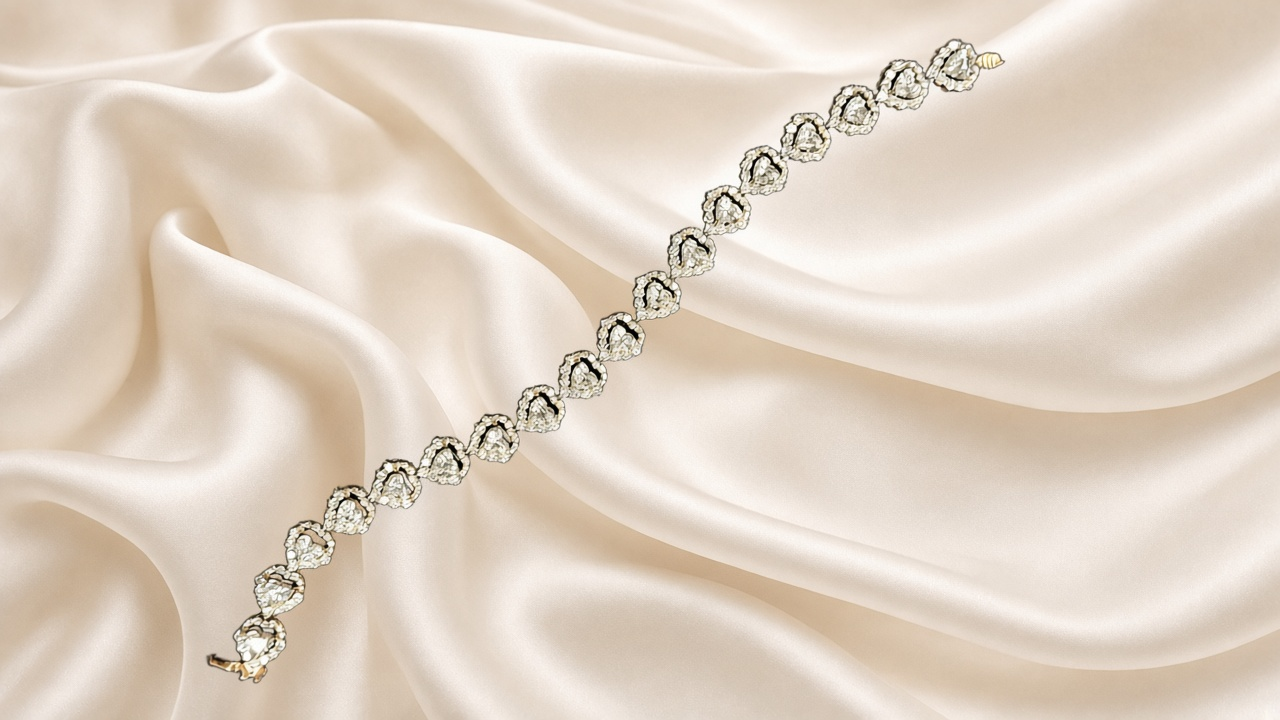
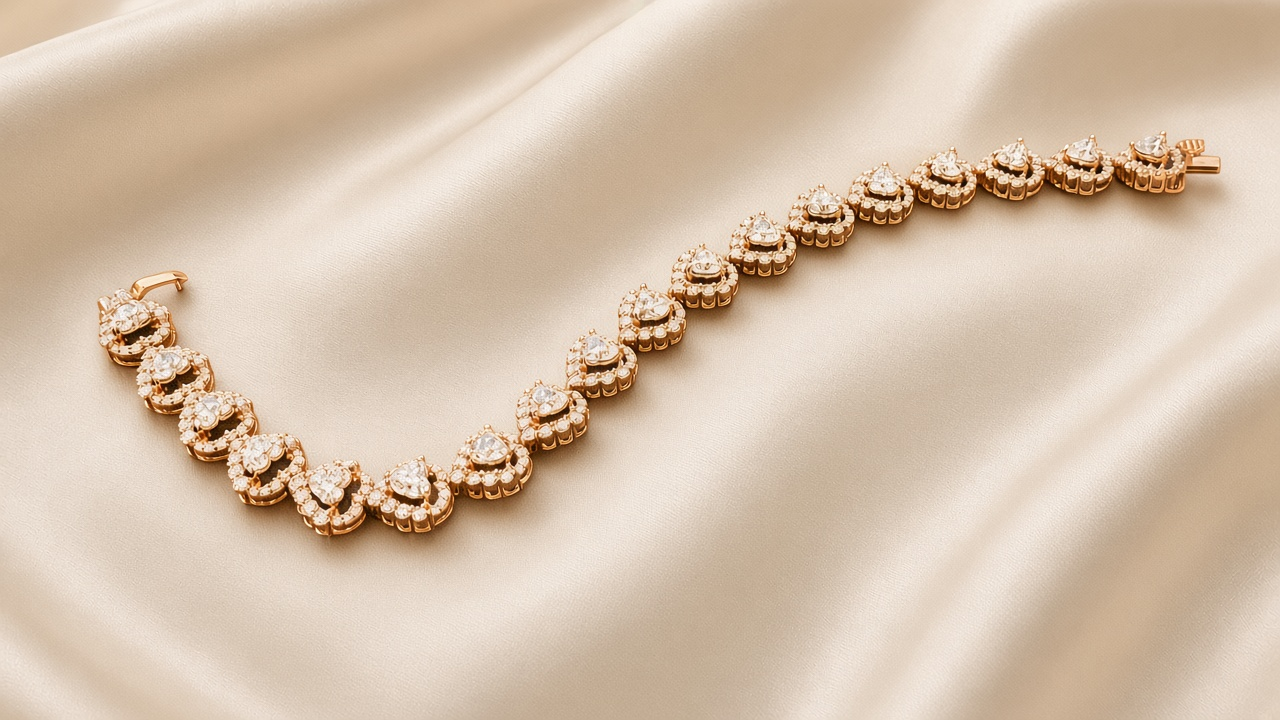
Refresh heart-link bracelet with accurate rose gold studio shots.
Replace white-metal Full/Layout and short Face with rose-gold Full, Layout, close-up Face, and clasp detail from inventory refs.

diff --git a/src/data/catalog.ts b/src/data/catalog.ts
@@ -145,27 +145,27 @@ export const catalogPieces: CatalogPiece[] = [
     line: 'bracelets',
     image: 'images/products/heart-link/cover.jpg',
     alt: 'Rose gold heart-link diamond bracelet with pavé halos on ivory silk',
-    blurb: '14K rose gold heart links with center heart diamonds and pavé halos. Full, layout, face, and casting views.',
+    blurb: '14K rose gold heart links with center heart diamonds and pavé halos. Full, layout, face, and clasp views.',
     shots: [
       {
         src: 'images/products/heart-link/cover.jpg',
-        alt: 'Full rose gold heart-link diamond bracelet on cool ivory silk',
+        alt: 'Full rose gold heart-link diamond bracelet on cream silk',
         label: 'Full',
       },
       {
         src: 'images/products/heart-link/layout.jpg',
-        alt: 'Rose gold heart-link bracelet layout on ivory fabric',
+        alt: 'Rose gold heart-link bracelet layout on cream silk',
         label: 'Layout',
       },
       {
         src: 'images/products/heart-link/face.jpg',
-        alt: 'Face view of rose gold heart links with pavé halos',
+        alt: 'Close-up of rose gold heart links with pavé halos',
         label: 'Face',
       },
       {
-        src: 'images/products/heart-link/casting.jpg',
-        alt: 'Side casting of rose gold heart-link bracelet',
-        label: 'Casting',
+        src: 'images/products/heart-link/clasp.jpg',
+        alt: 'Rose gold tongue-and-groove clasp on heart-link bracelet',
+        label: 'Clasp',
       },
     ],
   },
